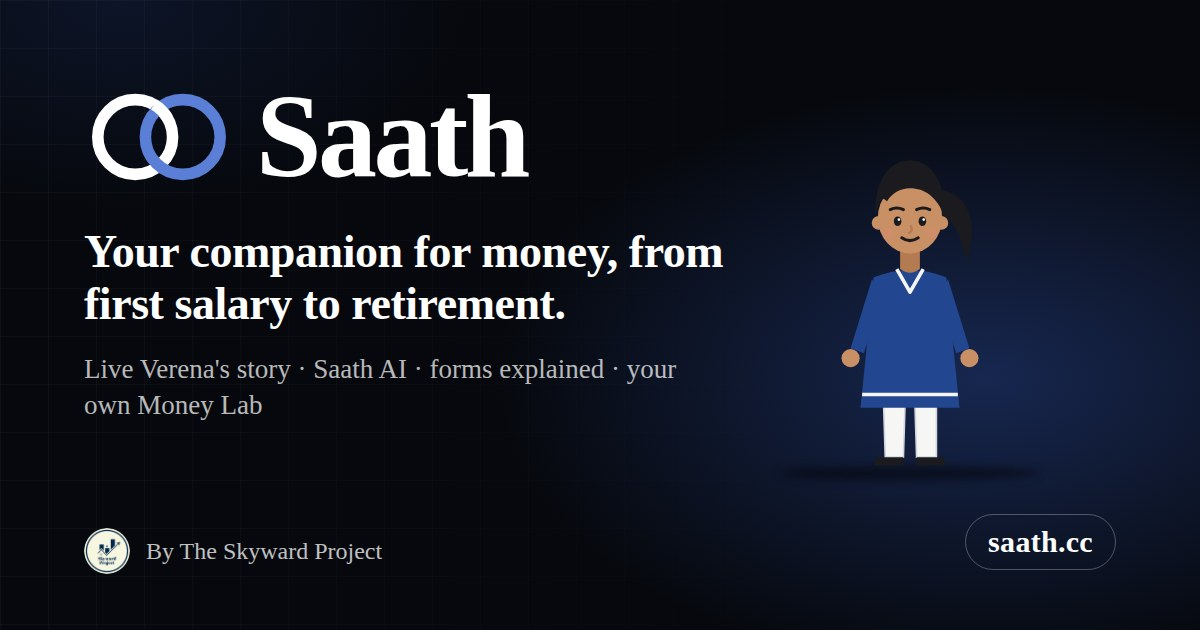
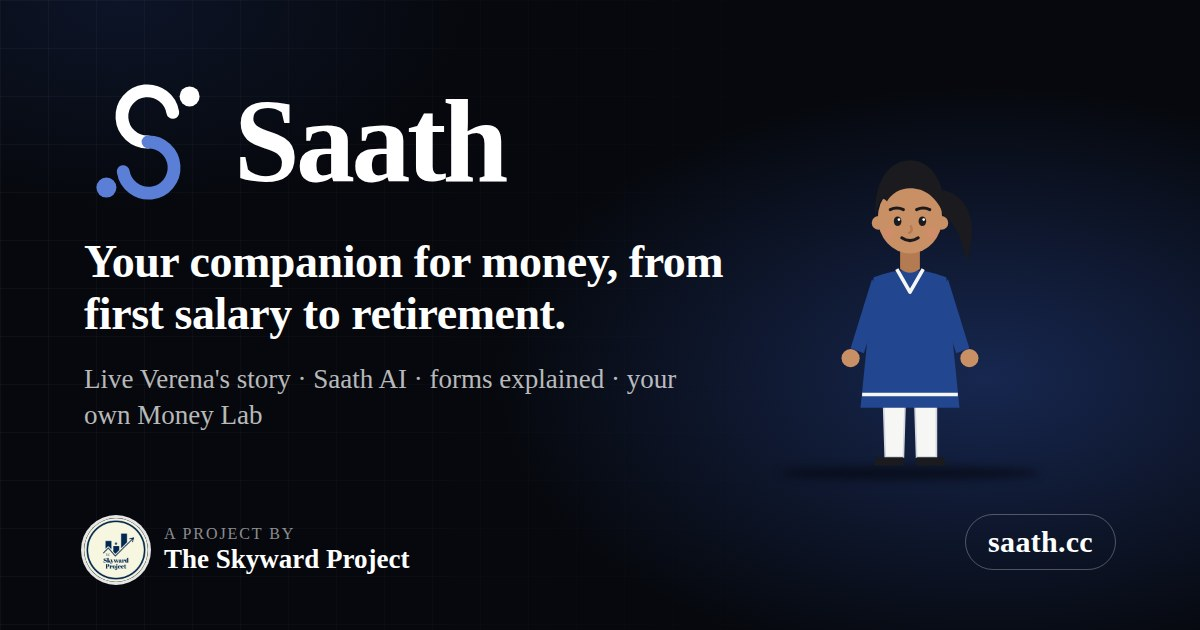
New Saath mark (an S of two companions) and a clear Skyward Project credit
- Logo: an S drawn as two companions, each curve with its own head
- Skyward Project badge on the landing hero and on Home; emblem larger and kept on phones
- App icons and the link preview card use the new mark

Claude-Session: https://claude.ai/code/session_0186oJ95RydCBmqqwT533ues

diff --git a/components/logo.tsx b/components/logo.tsx
@@ -1,24 +1,25 @@
 import { asset } from "@/lib/config";
 
 /**
- * The Saath mark: two rings that overlap, one in ink and one in navy. "Saath" means "together".
- * Colours come from the theme, so the mark works on white and on black.
+ * The Saath mark: an S drawn as two companions walking together, each curve with its own head, one in ink and one
+ * in navy. "Saath" means "together". Colours come from the theme, so the mark works on white and on black.
  */
 export function LogoMark({ size = 32, title }: { size?: number; title?: string }) {
+  const box = Math.round(size * 1.15);
   return (
     <svg
       className="logo-mark"
-      viewBox="0 0 44 30"
-      width={(size * 44) / 30}
-      height={size}
+      viewBox="0 0 32 32"
+      width={box}
+      height={box}
       role={title ? "img" : undefined}
       aria-label={title}
       aria-hidden={title ? undefined : true}
     >
-      <circle cx="15" cy="15" r="11" fill="none" stroke="var(--text)" strokeWidth="3.4" />
-      <circle cx="29" cy="15" r="11" fill="none" stroke="var(--navy)" strokeWidth="3.4" />
-      {/* The ink ring passes over the navy one at the top, so the two read as linked rather than stacked. */}
-      <path d="M20.5 5.47 A11 11 0 0 1 24.53 9.5" fill="none" stroke="var(--text)" strokeWidth="3.4" strokeLinecap="butt" />
+      <path d="M22.2 8.6 A6.4 6.4 0 1 0 16 16" fill="none" stroke="var(--text)" strokeWidth="3.2" strokeLinecap="round" />
+      <path d="M16 16 A6.4 6.4 0 1 1 9.8 23.4" fill="none" stroke="var(--navy)" strokeWidth="3.2" strokeLinecap="round" />
+      <circle cx="26.4" cy="4.6" r="2.5" fill="var(--text)" />
+      <circle cx="5.6" cy="27.4" r="2.5" fill="var(--navy)" />
     </svg>
   );
 }
@@ -40,9 +41,19 @@ export function Logo({ size = 28, emblem = true }: { size?: number; emblem?: boo
       {emblem && (
         <>
           <span className="logo-divider" aria-hidden />
-          <SkywardEmblem size={Math.round(size * 1.2)} />
+          <SkywardEmblem size={Math.round(size * 1.45)} />
         </>
       )}
+    </span>
+  );
+}
+
+/** "A Skyward Project initiative", with the emblem large enough to read. */
+export function SkywardBadge({ size = 44 }: { size?: number }) {
+  return (
+    <span className="skyward-badge" data-testid="skyward-badge">
+      <SkywardEmblem size={size} />
+      <span><small>A project by</small> The Skyward Project</span>
     </span>
   );
 }

diff --git a/app/globals.css b/app/globals.css
@@ -3088,3 +3088,26 @@ button, a, [role="button"], .chip, .btn { touch-action: manipulation; -webkit-ta
 .hero-brand .logo-mark { --text: #ffffff; --navy: #5b7fd6; }
 .hero-brand span { font-family: var(--font-head); font-weight: 700; font-size: clamp(3.25rem, 12vw, 5rem); line-height: 0.95; letter-spacing: -0.03em; }
 @media (max-width: 420px) { .intro-top .brand-name { font-size: 1.4rem; } .intro-top .skyward-emblem { display: none; } .intro-top .logo-divider { display: none; } }
+
+/* The Skyward Project, clearly credited on the landing page and Home. */
+.skyward-badge { display: inline-flex; align-items: center; gap: 12px; width: fit-content; padding: 6px 16px 6px 6px; border: 1px solid var(--line-strong); border-radius: var(--r-full); background: color-mix(in srgb, var(--surface-1) 70%, transparent); color: var(--text); font-weight: 600; font-size: 1rem; line-height: 1.15; }
+.skyward-badge .skyward-emblem { box-shadow: 0 0 0 2px rgba(255, 255, 255, 0.9); }
+.skyward-badge small { display: block; font-size: 0.72rem; font-weight: 500; letter-spacing: 0.08em; text-transform: uppercase; color: var(--text-faint); }
+.intro-hero .skyward-badge { color: #fff; border-color: rgba(255, 255, 255, 0.22); background: rgba(255, 255, 255, 0.05); }
+.intro-hero .skyward-badge small { color: rgba(255, 255, 255, 0.6); }
+.greeting .skyward-badge { margin-top: 2px; font-size: 0.95rem; }
+/* Keep the emblem in the top bar on phones too. */
+@media (max-width: 640px) { .shell-top .skyward-emblem, .shell-top .logo-divider { display: block !important; } }
+@media (max-width: 420px) { .intro-top .skyward-emblem, .intro-top .logo-divider { display: block !important; } .intro-top .brand-name { font-size: 1.3rem; } }
+.logo .skyward-emblem { box-shadow: 0 0 0 1.5px rgba(255, 255, 255, 0.85); }
+/* The mark's navy half, brighter where the background is dark. */
+.intro-top .logo-mark, .intro-hero .logo-mark, :root[data-theme="dark"] .logo-mark { --navy: #5b7fd6; }
+/* Phones: the landing header stays on one line. */
+.intro-top, .intro-top * { white-space: nowrap; }
+@media (max-width: 420px) {
+  .intro-top .logo { gap: 6px; }
+  .intro-top .skyward-emblem { width: 34px !important; height: 34px !important; }
+  .intro-top .brand-name { font-size: 1.2rem !important; }
+  .intro-top .cluster { gap: 2px; }
+  .intro-top .btn-auto { padding: 0 8px; }
+}

diff --git a/components/intro.tsx b/components/intro.tsx
@@ -8,7 +8,7 @@ import { inr } from "@/lib/format";
 import { tap } from "@/lib/speech";
 import { Character } from "./character";
 import { LangSwitch } from "./lang-switch";
-import { Logo, LogoMark } from "./logo";
+import { Logo, LogoMark, SkywardBadge } from "./logo";
 import { usePrefs } from "./prefs";
 import { useI18n } from "./providers";
 import { ThemeToggle } from "./theme-toggle";
@@ -431,7 +431,7 @@ export function Intro({ onJoin, onLogin }: { onJoin: () => void; onLogin: () => 
         </div>
         <div className="stack scene-in">
           <p className="hero-brand" data-testid="hero-brand"><LogoMark size={54} /><span>Saath</span></p>
-          <p className="masthead">{t("intro.hero.kicker")}</p>
+          <SkywardBadge size={48} />
           <h1>{t("intro.hero.title")}</h1>
           <p className="lead">{t("intro.hero.lead")}</p>
           <a className="btn btn-primary" href="#act-play" onClick={tap}>

diff --git a/components/home-screen.tsx b/components/home-screen.tsx
@@ -18,6 +18,7 @@ import { TodayChallenges } from "./challenges";
 import { Flame } from "./illustrations";
 import { FeedbackPanel } from "./feedback-panel";
 import { InstallCard } from "./install";
+import { SkywardBadge } from "./logo";
 import { useI18n } from "./providers";
 import { useSession } from "./session";
 import { CheckCard, ListenButton, PageSkeleton, Sheet, Skeleton } from "./ui";
@@ -180,6 +181,7 @@ export function HomeScreen() {
             <span aria-hidden>{streak.count}</span>
           </span>
         </div>
+        <SkywardBadge size={36} />
       </div>
 
       <VerenaHud />
